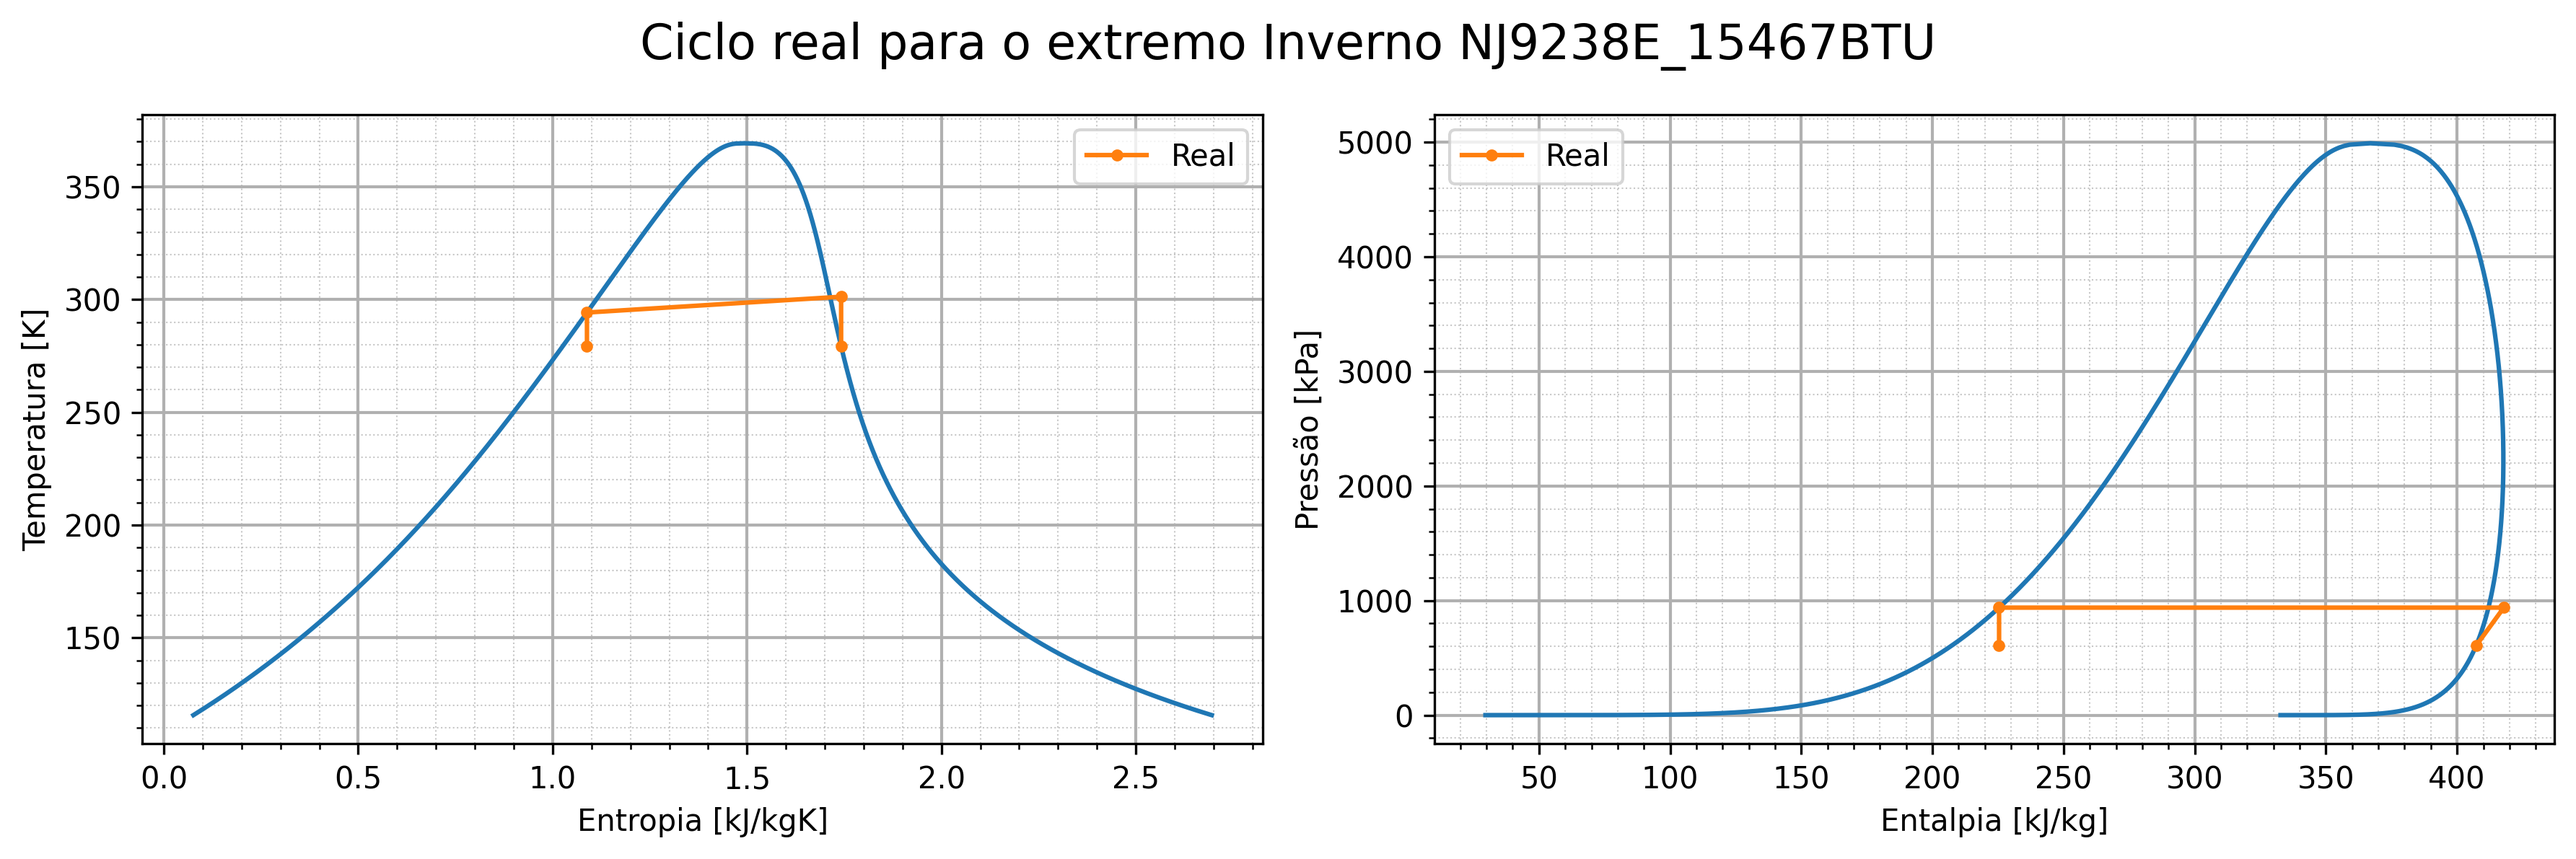
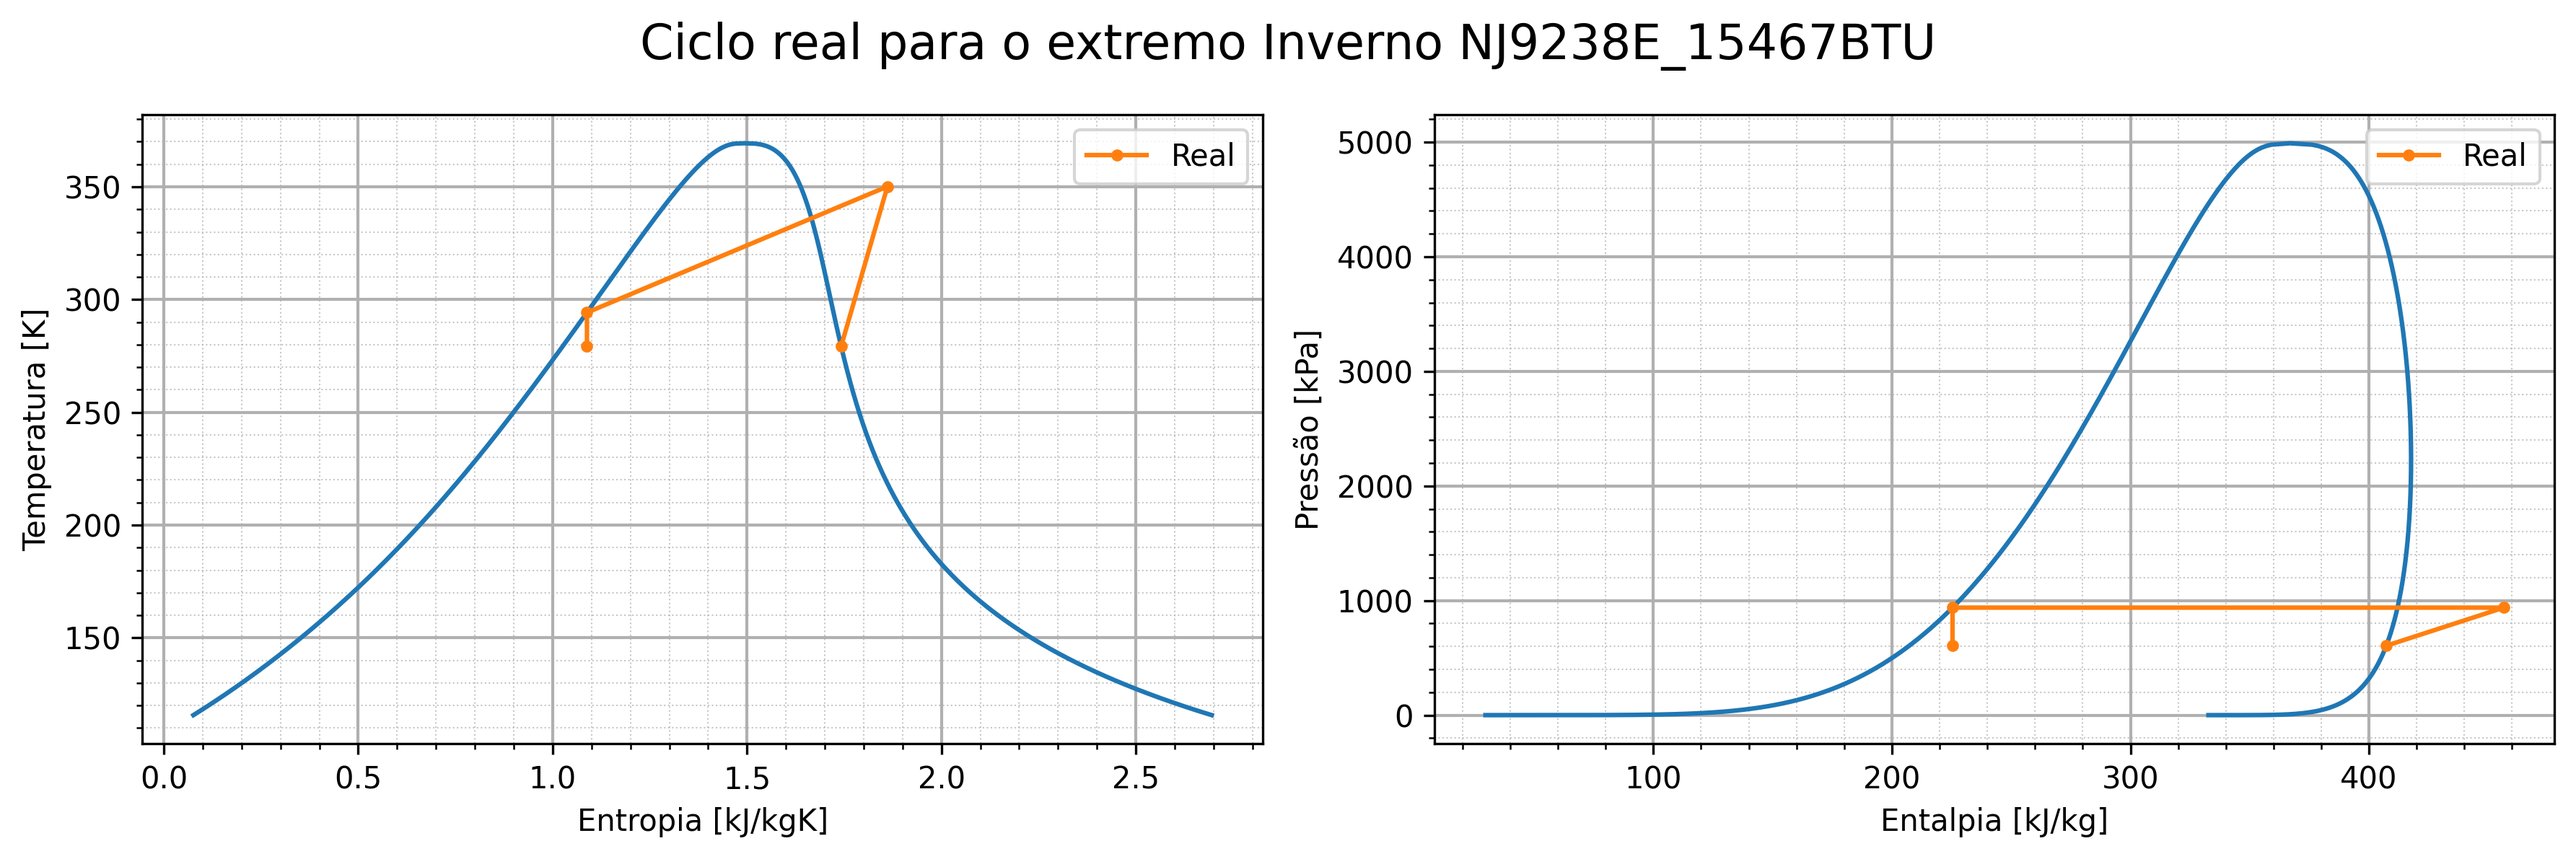
S2 inverno atualizado

diff --git a/Trab02/funcoes/calculo_com_UA.py b/Trab02/funcoes/calculo_com_UA.py
@@ -144,7 +144,7 @@ def calc_inverno(liq_ref):
     w = 1667.3531
     QL_calc = Q_evap
     QH = Q_cond
-
+    
     # PropriedadeS noS eStadoS
     # EStado 1: Saída do evaporador / Entrada do compreSSor (vapor Saturado)
     T1 = T_evap + 273
@@ -160,13 +160,14 @@ def calc_inverno(liq_ref):
     H3 = CP.PropsSI('H', 'T', T3, 'Q', 0, liq_ref)
     S3 = CP.PropsSI('S', 'T', T3, 'Q', 0, liq_ref)
 
+    H2 = H1+w/m
+
     P2 = P3
-    H2 = CP.PropsSI('H', 'P', P2, 'S', S1, liq_ref)
-    T2 = CP.PropsSI('T', 'P', P2, 'S', S1, liq_ref)
-    S2 = S1
+    S2 = CP.PropsSI('S', 'P', P2, 'H', H2, liq_ref)
+    T2 = CP.PropsSI('T', 'P', P2, 'H', H2, liq_ref)
     
     # EStado 4: Saída do capilar / Entrada do evaporador (expanSão iSentálpica)
-    T4 = T_evap + 273
+    T4 = T1
     P4 = P1
     H4 = H3  # ExpanSão iSentálpica
     S4 = S3
@@ -192,3 +193,5 @@ def calc_inverno(liq_ref):
 
 
     return real_dict
+
+# calc_inverno("R22")
